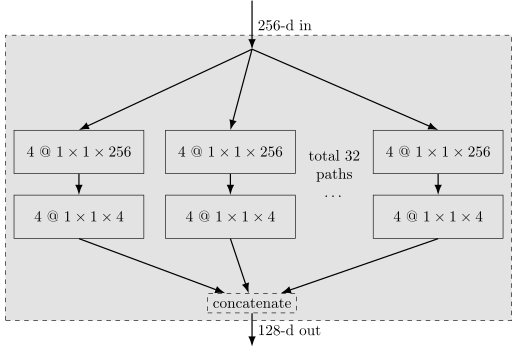
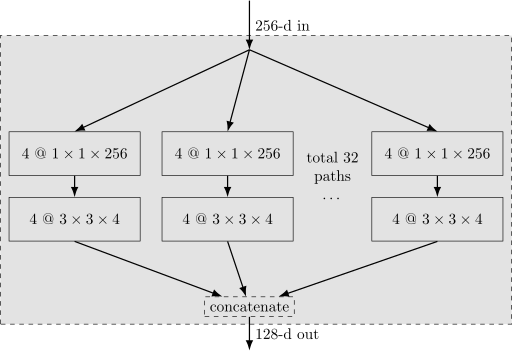
Update aggregation blocks

diff --git a/tikz/aggregation-blocks/aggregation-blocks.tex b/tikz/aggregation-blocks/aggregation-blocks.tex
@@ -5,7 +5,6 @@
 \usetikzlibrary{shapes.geometric,arrows,positioning}
 
 \begin{document}
-\newcommand{\filtersize}{3}
 
 \begin{tikzpicture}
     \tikzstyle{conv-layer}=[draw,minimum width=3cm,minimum height=1cm]
@@ -22,21 +21,21 @@
 
     % first path
     \node (rect11) at (-2.5,-1.5) [conv-layer] {4 @ $1 \times 1 \times 256$};
-    \node (rect12) at (-2.5,-3.0) [conv-layer] {4 @ $1 \times 1 \times 4$};
+    \node (rect12) at (-2.5,-3.0) [conv-layer] {4 @ $3 \times 3 \times 4$};
     \draw[arrow] (input.south) -- (rect11.north);
     \draw[arrow] (rect11.south) -- (rect12.north);
     \draw[arrow] (rect12.south) -- (concatenate);
 
     % second path
     \node (rect21) at ( 1,-1.5) [conv-layer] {4 @ $1 \times 1 \times 256$};
-    \node (rect22) at ( 1,-3.0) [conv-layer] {4 @ $1 \times 1 \times 4$};
+    \node (rect22) at ( 1,-3.0) [conv-layer] {4 @ $3 \times 3 \times 4$};
     \draw[arrow] (input.south) -- (rect21.north);
     \draw[arrow] (rect21.south) -- (rect22.north);
     \draw[arrow] (rect22.south) -- (concatenate);
 
     % last path
     \node (rect31) at ( 5.8,-1.5) [conv-layer] {4 @ $1 \times 1 \times 256$};
-    \node (rect32) at ( 5.8,-3.0) [conv-layer] {4 @ $1 \times 1 \times 4$};
+    \node (rect32) at ( 5.8,-3.0) [conv-layer] {4 @ $3 \times 3 \times 4$};
     \draw[arrow] (input.south) -- (rect31.north);
     \draw[arrow] (rect31.south) -- (rect32.north);
     \draw[arrow] (rect32.south) -- (concatenate);
